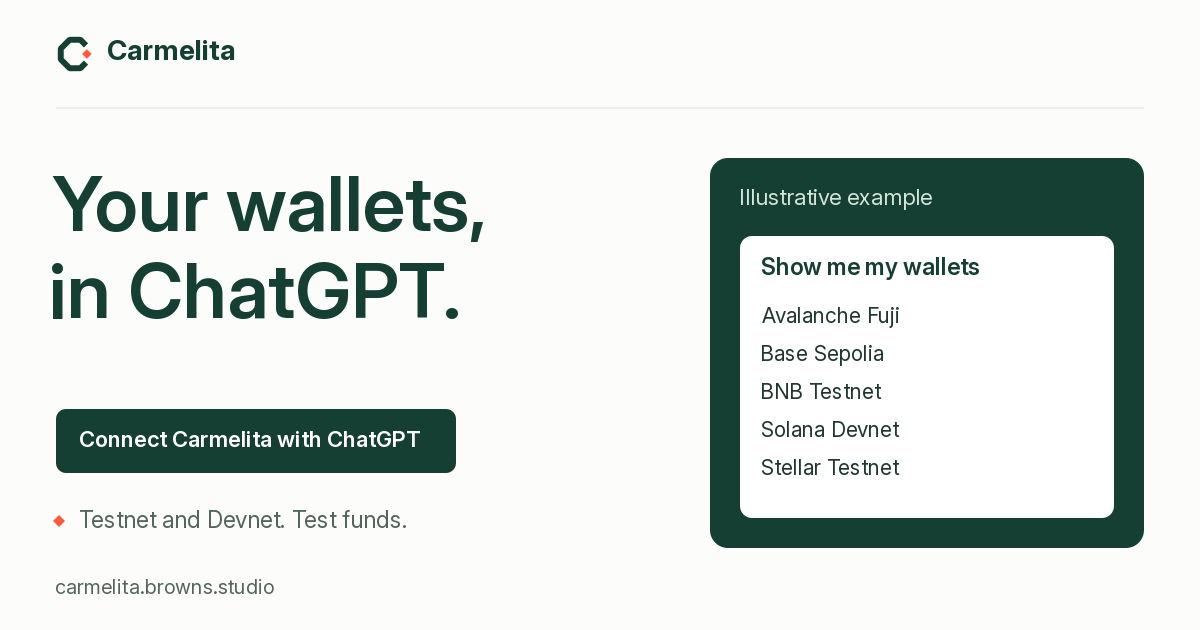
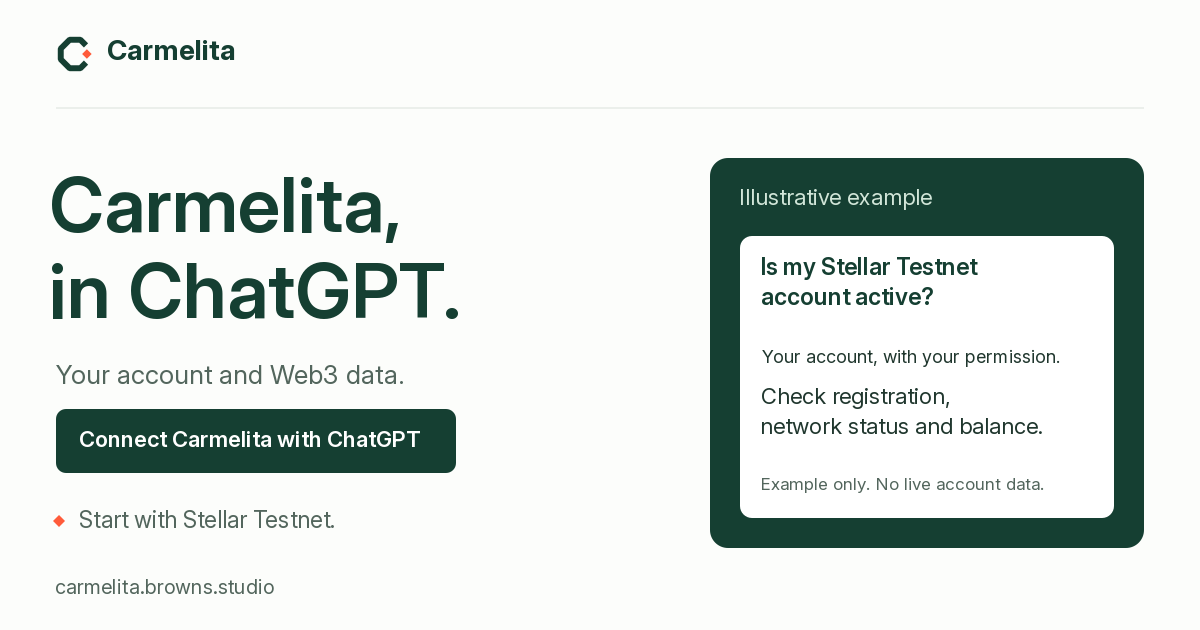
Present Carmelita as a ChatGPT connector with Stellar first

diff --git a/app/home-experience.tsx b/app/home-experience.tsx
@@ -8,22 +8,26 @@ import styles from "./home-experience.module.css";
 const copy = {
   es: {
     home: "Inicio de Carmelita", footerNav: "Enlaces de Carmelita", skip: "Ir al contenido", guide: "Guía de conexión", developers: "Desarrolladores",
-    title: "Tus wallets,", titleEnd: "en ChatGPT.",
-    description: "Conecta Carmelita y consulta las direcciones de tus wallets en cinco redes de prueba, desde una conversación.",
+    title: "Carmelita,", titleEnd: "dentro de ChatGPT.",
+    description: "Carmelita es un complemento para consultar tu información y datos Web3 desde ChatGPT. Conecta tu cuenta y pregunta por tus wallets, redes y mercado en la misma conversación.",
     connect: "Conectar Carmelita con ChatGPT", recommended: "Recomendado", signIn: "Iniciar sesión en Carmelita",
-    alternative: "También puedes entrar directamente", scope: "Wallets Testnet y Devnet. Fondos de prueba.",
-    example: "Ejemplo ilustrativo", question: "Muéstrame mis wallets", answer: "Estas son tus cinco redes de prueba.",
-    address: "Ejemplo de dirección", preview: "Vista ilustrativa. Al conectar, consultas las direcciones asociadas a tu cuenta.",
+    alternative: "También puedes entrar directamente", scope: "Consultas vinculadas a la cuenta que autorizas.",
+    example: "Ejemplo ilustrativo", question: "¿Qué puedo consultar con Carmelita?", answer: "Empieza por tu cuenta y el contexto de tus redes.",
+    queries: ["Tu wallet Stellar y tus otras wallets", "El estado de tu cuenta en la red", "Información de mercado y redes"],
+    preview: "Ejemplo ilustrativo de consultas. Tus datos aparecen después de autorizar.",
     benefits: [
-      ["Pregunta con tus palabras", "Consulta tus direcciones sin cambiar de conversación."],
-      ["Encuentra tus wallets", "Revisa las wallets de la cuenta que autorizas y abre sus exploradores."],
-      ["Empieza en redes de prueba", "Conoce el recorrido con Testnet y Devnet antes de usar fondos reales."],
+      ["Tu información", "Consulta las wallets asociadas a la cuenta que autorizas."],
+      ["El contexto", "Pregunta por precios y redes, con fuentes y disponibilidad."],
+      ["Tu conversación", "Pregunta con tus palabras, sin salir de ChatGPT."],
     ],
-    stepsTitle: "De la conexión a tu primera pregunta.", stepsIntro: "La guía te acompaña. La conexión se añade manualmente en ChatGPT.",
+    stellarLabel: "Empieza con Stellar", stellarTitle: "Una pregunta para conocer tu cuenta.",
+    stellarQuestion: "«¿Está activa mi cuenta Stellar Testnet?»",
+    stellarDescription: "Carmelita consulta su estado. La activación se confirma en la red; los fondos de este recorrido son de prueba.",
+    stepsTitle: "Conecta una vez. Empieza a preguntar.", stepsIntro: "La guía te acompaña. La conexión se añade manualmente en ChatGPT.",
     steps: [
       ["Abre la guía", "Copia la URL de Carmelita y abre la sección de conectores de ChatGPT."],
       ["Añade Carmelita y autoriza", "Crea tu cuenta Carmelita o inicia sesión durante la autorización. Revisa los permisos antes de aceptar."],
-      ["Pregunta por tus wallets", "Habilita Carmelita en una conversación y escribe: «Muéstrame mis wallets»."],
+      ["Empieza a preguntar", "Habilita Carmelita en una conversación. Puedes empezar con: «¿Está activa mi cuenta Stellar Testnet?»."],
     ],
     stepsLink: "Abrir la guía paso a paso",
     faqTitle: "Antes de conectar.", faqIntro: "Lo que necesitas saber para empezar con tu cuenta.",
@@ -31,8 +35,8 @@ const copy = {
       ["¿Necesito crear una cuenta Carmelita antes?", "Puedes crear tu cuenta Carmelita o iniciar sesión durante la autorización desde ChatGPT. Si ya tienes cuenta, utiliza la misma identidad para conservar tus wallets."],
       ["¿Funciona con cualquier cuenta de ChatGPT?", "Tu cuenta debe permitir conectores MCP personalizados. La disponibilidad depende de tu cuenta y de las políticas de tu espacio de trabajo. Crear una cuenta ChatGPT no garantiza ese permiso; la guía explica cómo comprobarlo."],
       ["¿Mis wallets se preparan al conectar?", "La autorización prepara tus wallets para las cinco redes de prueba. Stellar intenta activarse automáticamente con XLM Testnet y sólo aparece activa cuando la red lo confirma. Si la red no responde, la activación puede quedar pendiente. Las otras redes no se financian automáticamente."],
-      ["¿Por qué tres redes comparten una dirección?", "Avalanche Fuji, Base Sepolia y BNB Testnet utilizan la misma dirección EVM. Cada red mantiene su propio saldo y actividad. Solana Devnet y Stellar Testnet tienen sus propias direcciones."],
-      ["¿Estos fondos tienen valor real?", "Las wallets de este recorrido usan Testnet o Devnet. Sus fondos sirven para pruebas y no se convierten en fondos Mainnet. XLM es el activo nativo de Stellar y no necesita una trustline."],
+      ["¿Qué redes puedo consultar?", "Empezamos por Stellar Testnet. También puedes consultar tus wallets en Solana Devnet, Avalanche Fuji, Base Sepolia y BNB Testnet. Las tres redes EVM comparten una dirección; cada red mantiene su propio saldo y actividad."],
+      ["¿Son fondos reales o de prueba?", "Las wallets de este recorrido usan Testnet o Devnet. Sus fondos sirven para pruebas y no se convierten en fondos Mainnet. Los datos de mercado se consultan por separado y no dan valor real a los fondos Testnet. XLM es el activo nativo de Stellar y no necesita una trustline."],
     ],
     development: "En desarrollo", visionTitle: "Más servicios, una misma conexión.",
     vision: "Estamos preparando Carmelita como una pasarela para conectar servicios de empresas y desarrolladores con los asistentes. Bazaar, las compras y la ejecución de servicios siguen pendientes de validación.",
@@ -40,22 +44,26 @@ const copy = {
   },
   en: {
     home: "Carmelita home", footerNav: "Carmelita links", skip: "Skip to content", guide: "Connection guide", developers: "Developers",
-    title: "Your wallets,", titleEnd: "in ChatGPT.",
-    description: "Connect Carmelita and check your wallet addresses across five test networks, from a conversation.",
+    title: "Carmelita,", titleEnd: "in ChatGPT.",
+    description: "Carmelita is a connector for checking your information and Web3 data from ChatGPT. Connect your account and ask about your wallets, networks and markets in the same conversation.",
     connect: "Connect Carmelita with ChatGPT", recommended: "Recommended", signIn: "Sign in to Carmelita",
-    alternative: "You can also sign in directly", scope: "Testnet and Devnet wallets. Test funds.",
-    example: "Illustrative example", question: "Show me my wallets", answer: "Here are your five test networks.",
-    address: "Example address", preview: "Illustrative view. Once connected, you can check the addresses associated with your account.",
+    alternative: "You can also sign in directly", scope: "Queries linked to the account you authorize.",
+    example: "Illustrative example", question: "What can I ask Carmelita about?", answer: "Start with your account and the context of your networks.",
+    queries: ["Your Stellar wallet and your other wallets", "Your account’s status on the network", "Market and network information"],
+    preview: "Illustrative queries. Your data appears after authorization.",
     benefits: [
-      ["Ask in your own words", "Check your addresses without leaving the conversation."],
-      ["Find your wallets", "View the wallets of the account you authorize and open their explorers."],
-      ["Start on test networks", "Learn the flow with Testnet and Devnet before using real funds."],
+      ["Your information", "Check the wallets associated with the account you authorize."],
+      ["The context", "Ask about prices and networks, with sources and availability."],
+      ["Your conversation", "Ask in your own words, without leaving ChatGPT."],
     ],
-    stepsTitle: "From connecting to your first question.", stepsIntro: "The guide walks you through it. You add the connection manually in ChatGPT.",
+    stellarLabel: "Start with Stellar", stellarTitle: "One question to learn about your account.",
+    stellarQuestion: "“Is my Stellar Testnet account active?”",
+    stellarDescription: "Carmelita checks its status. Activation is confirmed on the network; funds in this flow are test funds.",
+    stepsTitle: "Connect once. Start asking.", stepsIntro: "The guide walks you through it. You add the connection manually in ChatGPT.",
     steps: [
       ["Open the guide", "Copy Carmelita’s URL and open the connectors section in ChatGPT."],
       ["Add Carmelita and authorize", "Create your Carmelita account or sign in during authorization. Review the permissions before accepting."],
-      ["Ask about your wallets", "Enable Carmelita in a conversation and type: “Show me my wallets”."],
+      ["Start asking", "Enable Carmelita in a conversation. You can start with: “Is my Stellar Testnet account active?”."],
     ],
     stepsLink: "Open the step-by-step guide",
     faqTitle: "Before you connect.", faqIntro: "What you need to know to get started with your account.",
@@ -63,8 +71,8 @@ const copy = {
       ["Do I need a Carmelita account first?", "You can create your Carmelita account or sign in during authorization from ChatGPT. If you already have an account, use the same identity to keep your wallets."],
       ["Does it work with every ChatGPT account?", "Your account must allow custom MCP connectors. Availability depends on your account and workspace policies. Creating a ChatGPT account does not guarantee this permission; the guide explains how to check."],
       ["Are my wallets prepared when I connect?", "Authorization prepares your wallets for the five test networks. Stellar attempts automatic activation with Testnet XLM and is shown as active only after network confirmation. If the network does not respond, activation may remain pending. The other networks are not automatically funded."],
-      ["Why do three networks share an address?", "Avalanche Fuji, Base Sepolia and BNB Testnet use the same EVM address. Each network keeps its own balance and activity. Solana Devnet and Stellar Testnet have their own addresses."],
-      ["Do these funds have real value?", "The wallets in this flow use Testnet or Devnet. Their funds are for testing and do not become Mainnet funds. XLM is Stellar’s native asset and does not need a trustline."],
+      ["Which networks can I ask about?", "Start with Stellar Testnet. You can also check your wallets on Solana Devnet, Avalanche Fuji, Base Sepolia and BNB Testnet. The three EVM networks share an address; each network keeps its own balance and activity."],
+      ["Are these real funds or test funds?", "The wallets in this flow use Testnet or Devnet. Their funds are for testing and do not become Mainnet funds. Market data is queried separately and does not give Testnet funds real value. XLM is Stellar’s native asset and does not need a trustline."],
     ],
     development: "In development", visionTitle: "More services, one connection.",
     vision: "We are preparing Carmelita as a gateway connecting services from businesses and developers with assistants. Bazaar, purchases and service execution are still awaiting validation.",
@@ -72,22 +80,26 @@ const copy = {
   },
   pt: {
     home: "Início da Carmelita", footerNav: "Links da Carmelita", skip: "Ir para o conteúdo", guide: "Guia de conexão", developers: "Desenvolvedores",
-    title: "Suas carteiras,", titleEnd: "no ChatGPT.",
-    description: "Conecte a Carmelita e consulte os endereços das suas carteiras em cinco redes de teste, a partir de uma conversa.",
+    title: "Carmelita,", titleEnd: "no ChatGPT.",
+    description: "A Carmelita é um conector para consultar suas informações e dados Web3 pelo ChatGPT. Conecte sua conta e pergunte sobre suas carteiras, redes e mercado na mesma conversa.",
     connect: "Conectar a Carmelita ao ChatGPT", recommended: "Recomendado", signIn: "Entrar na Carmelita",
-    alternative: "Você também pode entrar diretamente", scope: "Carteiras Testnet e Devnet. Fundos de teste.",
-    example: "Exemplo ilustrativo", question: "Mostre minhas carteiras", answer: "Estas são suas cinco redes de teste.",
-    address: "Exemplo de endereço", preview: "Vista ilustrativa. Ao conectar, você consulta os endereços associados à sua conta.",
+    alternative: "Você também pode entrar diretamente", scope: "Consultas vinculadas à conta que você autoriza.",
+    example: "Exemplo ilustrativo", question: "O que posso consultar com a Carmelita?", answer: "Comece pela sua conta e pelo contexto das suas redes.",
+    queries: ["Sua carteira Stellar e suas outras carteiras", "O estado da sua conta na rede", "Informações de mercado e redes"],
+    preview: "Exemplo ilustrativo de consultas. Seus dados aparecem após a autorização.",
     benefits: [
-      ["Pergunte com suas palavras", "Consulte seus endereços sem sair da conversa."],
-      ["Encontre suas carteiras", "Confira as carteiras da conta que autoriza e abra seus exploradores."],
-      ["Comece em redes de teste", "Conheça o fluxo com Testnet e Devnet antes de usar fundos reais."],
+      ["Suas informações", "Consulte as carteiras associadas à conta que autoriza."],
+      ["O contexto", "Pergunte sobre preços e redes, com fontes e disponibilidade."],
+      ["Sua conversa", "Pergunte com suas palavras, sem sair do ChatGPT."],
     ],
-    stepsTitle: "Da conexão à sua primeira pergunta.", stepsIntro: "O guia acompanha você. A conexão é adicionada manualmente no ChatGPT.",
+    stellarLabel: "Comece com Stellar", stellarTitle: "Uma pergunta para conhecer sua conta.",
+    stellarQuestion: "“Minha conta Stellar Testnet está ativa?”",
+    stellarDescription: "A Carmelita consulta o estado da conta. A ativação é confirmada na rede; os fundos deste fluxo são de teste.",
+    stepsTitle: "Conecte uma vez. Comece a perguntar.", stepsIntro: "O guia acompanha você. A conexão é adicionada manualmente no ChatGPT.",
     steps: [
       ["Abra o guia", "Copie a URL da Carmelita e abra a seção de conectores do ChatGPT."],
       ["Adicione a Carmelita e autorize", "Crie sua conta Carmelita ou entre durante a autorização. Confira as permissões antes de aceitar."],
-      ["Pergunte pelas suas carteiras", "Ative a Carmelita em uma conversa e escreva: “Mostre minhas carteiras”."],
+      ["Comece a perguntar", "Ative a Carmelita em uma conversa. Você pode começar com: “Minha conta Stellar Testnet está ativa?”."],
     ],
     stepsLink: "Abrir o guia passo a passo",
     faqTitle: "Antes de conectar.", faqIntro: "O que você precisa saber para começar com sua conta.",
@@ -95,8 +107,8 @@ const copy = {
       ["Preciso criar uma conta Carmelita antes?", "Você pode criar sua conta Carmelita ou entrar durante a autorização pelo ChatGPT. Se já tem uma conta, use a mesma identidade para manter suas carteiras."],
       ["Funciona com qualquer conta do ChatGPT?", "Sua conta precisa permitir conectores MCP personalizados. A disponibilidade depende da conta e das políticas do espaço de trabalho. Criar uma conta ChatGPT não garante essa permissão; o guia explica como verificar."],
       ["Minhas carteiras são preparadas ao conectar?", "A autorização prepara suas carteiras para as cinco redes de teste. A Stellar tenta ativar-se automaticamente com XLM Testnet e só aparece ativa após confirmação da rede. Se a rede não responder, a ativação pode ficar pendente. As demais redes não recebem fundos automaticamente."],
-      ["Por que três redes compartilham um endereço?", "Avalanche Fuji, Base Sepolia e BNB Testnet usam o mesmo endereço EVM. Cada rede mantém seu próprio saldo e atividade. Solana Devnet e Stellar Testnet têm seus próprios endereços."],
-      ["Esses fundos têm valor real?", "As carteiras deste fluxo usam Testnet ou Devnet. Seus fundos servem para testes e não se tornam fundos Mainnet. XLM é o ativo nativo da Stellar e não precisa de uma trustline."],
+      ["Quais redes posso consultar?", "Comece pela Stellar Testnet. Você também pode consultar suas carteiras na Solana Devnet, Avalanche Fuji, Base Sepolia e BNB Testnet. As três redes EVM compartilham um endereço; cada rede mantém seu próprio saldo e atividade."],
+      ["São fundos reais ou de teste?", "As carteiras deste fluxo usam Testnet ou Devnet. Seus fundos servem para testes e não se tornam fundos Mainnet. Dados de mercado são consultados separadamente e não dão valor real aos fundos Testnet. XLM é o ativo nativo da Stellar e não precisa de uma trustline."],
     ],
     development: "Em desenvolvimento", visionTitle: "Mais serviços, uma mesma conexão.",
     vision: "Estamos preparando a Carmelita como uma plataforma para conectar serviços de empresas e desenvolvedores aos assistentes. Bazaar, compras e execução de serviços ainda aguardam validação.",
@@ -104,13 +116,15 @@ const copy = {
   },
 };
 
-const networks = [
-  { name: "Avalanche Fuji", symbol: "A", family: "evm", example: "0x…" },
-  { name: "Base Sepolia", symbol: "B", family: "evm", example: "0x…" },
-  { name: "BNB Testnet", symbol: "B", family: "evm", example: "0x…" },
-  { name: "Solana Devnet", symbol: "S", family: "solana", example: "…" },
-  { name: "Stellar Testnet", symbol: "S", family: "stellar", example: "G…" },
-];
+function QueryIcon({ kind }: { kind: number }) {
+  return (
+    <svg width="20" height="20" viewBox="0 0 24 24" aria-hidden="true" focusable="false" fill="none" stroke="currentColor" strokeWidth="1.6" strokeLinecap="round" strokeLinejoin="round">
+      {kind === 0 ? <><rect x="3" y="5" width="18" height="15" rx="2" /><path d="M3 9h18m0 3h-5v5h5" /><circle cx="18" cy="14.5" r=".7" /></> :
+        kind === 1 ? <path d="M2 12h4l3-8 4 16 3-8h6" /> :
+          <path d="M4 4v16h16M8 16v-4m4 4V8m4 8V5" />}
+    </svg>
+  );
+}
 
 export default function HomeExperience() {
   const { locale, setLocale } = useLocale();
@@ -146,13 +160,9 @@ export default function HomeExperience() {
             <p className={styles.question}>{t.question}</p>
             <div className={styles.response}>
               <p className={styles.answer}>{t.answer}</p>
-              <ul className={styles.networks}>
-                {networks.map(network => (
-                  <li key={network.name}>
-                    <span className={styles.networkSymbol + " " + styles[network.family]} aria-hidden="true">{network.symbol}</span>
-                    <span>{network.name}</span>
-                    <span className={styles.address} aria-label={t.address}>{network.example}</span>
-                  </li>
+              <ul className={styles.queryList}>
+                {t.queries.map((query, index) => (
+                  <li key={query}><QueryIcon kind={index} /><span>{query}</span></li>
                 ))}
               </ul>
             </div>
@@ -165,6 +175,16 @@ export default function HomeExperience() {
           <div key={title}><h2>{title}</h2><p>{description}</p></div>
         ))}
       </div>
+      <section className={styles.stellarUse} aria-labelledby="home-stellar-title">
+        <div>
+          <p className={styles.development}><span aria-hidden="true" />{t.stellarLabel}</p>
+          <h2 id="home-stellar-title">{t.stellarTitle}</h2>
+        </div>
+        <div>
+          <blockquote className={styles.stellarQuestion}>{t.stellarQuestion}</blockquote>
+          <p className={styles.stellarDescription}>{t.stellarDescription}</p>
+        </div>
+      </section>
       <section className={styles.steps} aria-labelledby="home-steps-title">
         <div className={styles.sectionHeading}>
           <h2 id="home-steps-title">{t.stepsTitle}</h2><p>{t.stepsIntro}</p>

diff --git a/app/home-experience.module.css b/app/home-experience.module.css
@@ -35,7 +35,7 @@
   color: white; background: var(--home-green); transform: translateY(-180%);
 }
 .skipLink:focus { transform: translateY(0); }
-.nav, .hero, .benefits, .steps, .faq, .vision, .footer { width: min(1180px, 100%); margin-inline: auto; }
+.nav, .hero, .benefits, .stellarUse, .steps, .faq, .vision, .footer { width: min(1180px, 100%); margin-inline: auto; }
 .nav {
   display: flex; align-items: center; justify-content: space-between; gap: 24px;
   padding-block: 22px; border-bottom: 1px solid var(--home-line);
@@ -48,10 +48,10 @@
 .navActions :global(.language-toggle button) { min-width: 44px; min-height: 44px; padding: 10px; font-family: inherit; font-size: 14px; font-weight: 600; color: var(--home-green); }
 .navActions :global(.language-toggle button.active) { background: var(--home-green); color: white; }
 
-.hero { display: grid; grid-template-columns: minmax(0, 1fr) minmax(0, 1fr); align-items: center; gap: 64px; padding-block: 80px 64px; scroll-margin-top: 24px; }
+.hero { display: grid; grid-template-columns: minmax(0, 1.12fr) minmax(0, .88fr); align-items: center; gap: 56px; padding-block: 72px 56px; scroll-margin-top: 24px; }
 .intro { min-width: 0; }
-.intro h1 { margin: 0; color: var(--home-green); font-size: clamp(48px, 5.4vw, 76px); font-weight: 650; line-height: 1.04; letter-spacing: -.06em; overflow-wrap: break-word; }
-.description { margin: 26px 0 32px; max-width: 480px; font-size: 18px; line-height: 1.7; color: var(--home-muted); }
+.intro h1 { margin: 0; color: var(--home-green); font-size: clamp(44px, 5.4vw, 64px); font-weight: 650; line-height: 1.08; letter-spacing: -.055em; overflow-wrap: break-word; }
+.description { margin: 26px 0 32px; max-width: 600px; font-size: 18px; line-height: 1.7; color: var(--home-muted); }
 .actions { display: flex; flex-direction: column; align-items: flex-start; gap: 22px; }
 .primary { display: inline-flex; flex-direction: column; align-items: center; justify-content: center; gap: 6px; min-height: 76px; max-width: 100%; padding: 16px 26px; border-radius: 10px; background: var(--home-green); color: white; font-size: 16px; font-weight: 650; line-height: 1.5; text-align: center; text-decoration: none; transition: background-color 150ms ease; }
 .primary:hover { background: #0d3025; }
@@ -70,18 +70,18 @@
 .question { width: fit-content; max-width: 95%; margin: 0 0 22px auto; padding: 13px 17px; border-radius: 12px 12px 3px 12px; background: #d8eddd; color: var(--home-green); font-size: 16px; line-height: 1.5; }
 .response { padding: 22px; background: white; border-radius: 3px 12px 12px 12px; }
 .answer { margin: 0 0 14px; color: var(--home-text); font-size: 16px; font-weight: 550; line-height: 1.6; }
-.networks { list-style: none; padding: 0; margin: 0; }
-.networks li { display: grid; grid-template-columns: 30px minmax(0, 1fr) auto; align-items: center; gap: 12px; min-height: 51px; padding-block: 10px; border-top: 1px solid var(--home-line); font-size: 15px; line-height: 1.5; }
-.networkSymbol { display: grid; place-items: center; width: 30px; height: 30px; border-radius: 50%; font-size: 14px; font-weight: 650; }
-.evm { background: #e6eee8; color: var(--home-green); }
-.solana { background: #e8eaf6; color: #414c7c; }
-.stellar { background: #f6eade; color: #775334; }
-.address { color: var(--home-muted); font-size: 14px; font-variant-numeric: tabular-nums; }
+.queryList { list-style: none; padding: 0; margin: 0; }
+.queryList li { display: flex; align-items: center; gap: 12px; min-height: 54px; padding-block: 14px; border-top: 1px solid var(--home-line); font-size: 15px; line-height: 1.6; }
+.queryList svg { flex-shrink: 0; color: var(--home-green); }
 .previewNote { margin: 14px 4px 0; max-width: 510px; color: var(--home-muted); font-size: 14px; line-height: 1.6; }
 
 .benefits { display: grid; grid-template-columns: repeat(3, minmax(0, 1fr)); gap: 40px; border-top: 1px solid var(--home-line); padding-block: 36px 48px; }
 .benefits h2 { margin: 0 0 12px; font-size: 20px; font-weight: 600; line-height: 1.4; letter-spacing: -.025em; }
 .benefits p { margin: 0; max-width: 330px; color: var(--home-muted); font-size: 16px; line-height: 1.7; }
+.stellarUse { display: grid; grid-template-columns: minmax(0, 1fr) minmax(0, 1fr); align-items: center; gap: 40px; padding: 36px; margin-bottom: 52px; background: var(--home-soft); border-left: 3px solid var(--home-green); }
+.stellarUse h2 { margin: 0; max-width: 440px; font-size: clamp(28px, 3vw, 34px); font-weight: 600; line-height: 1.2; letter-spacing: -.035em; color: var(--home-green); }
+.stellarQuestion { margin: 0 0 14px; padding: 0; border: 0; color: var(--home-green); font-size: 21px; line-height: 1.5; }
+.stellarDescription { margin: 0; color: var(--home-muted); font-size: 16px; line-height: 1.7; }
 .steps { padding-block: 72px; border-top: 1px solid var(--home-line); }
 .sectionHeading h2 { margin: 0; max-width: 760px; color: var(--home-green); font-size: clamp(30px, 3.2vw, 42px); font-weight: 600; line-height: 1.16; letter-spacing: -.045em; }
 .sectionHeading > p { margin: 18px 0 0; max-width: 620px; color: var(--home-muted); font-size: 16px; line-height: 1.7; }
@@ -120,7 +120,7 @@
 @media (max-width: 1100px) { .hero { gap: 40px; } .conversation { padding: 22px; } .response { padding: 18px; } .faq { gap: 40px; } .vision { gap: 40px; padding: 32px; } }
 @media (max-width: 899px) {
   .hero { grid-template-columns: minmax(0, 1fr); gap: 40px; padding-block: 56px 44px; }
-  .intro h1 { font-size: clamp(44px, 8vw, 68px); }
+  .intro h1 { font-size: clamp(44px, 8vw, 64px); }
   .description { max-width: 600px; }
   .demo { max-width: 620px; }
   .benefits, .steps ol { grid-template-columns: minmax(0, 1fr); gap: 28px; }
@@ -129,7 +129,7 @@
   .steps h3 { margin: 3px 0 0; }
   .steps li p { grid-column: 2; }
   .steps, .faq { padding-block: 52px; }
-  .faq, .vision { grid-template-columns: minmax(0, 1fr); gap: 28px; }
+  .faq, .vision, .stellarUse { grid-template-columns: minmax(0, 1fr); gap: 28px; }
   .vision { margin-bottom: 52px; }
 }
 @media (max-width: 540px) {
@@ -147,10 +147,11 @@
   .conversation header :global(.brand-wordmark) { font-size: 18px; }
   .conversation header > span:last-child { width: 100%; }
   .response { padding: 16px; }
-  .networks li { grid-template-columns: 26px minmax(0, 1fr) auto; gap: 8px; font-size: 14px; }
-  .networkSymbol { width: 26px; height: 26px; }
+  .queryList li { gap: 10px; }
   .previewNote { margin-inline: 0; }
   .benefits { padding-block: 28px 36px; }
+  .stellarUse { padding: 26px 22px; margin-bottom: 36px; }
+  .stellarQuestion { font-size: 19px; }
   .sectionHeading h2 { font-size: 30px; }
   .steps ol { margin-top: 28px; }
   .steps h3, .benefits h2 { font-size: 18px; }

diff --git a/app/page.tsx b/app/page.tsx
@@ -2,19 +2,19 @@ import type { Metadata } from "next";
 import HomeExperience from "./home-experience";
 
 export const metadata: Metadata = {
-  title: "Carmelita | Your wallets, in ChatGPT",
-  description: "Connect Carmelita with ChatGPT to check your own wallet addresses across Avalanche Fuji, Base Sepolia, BNB Testnet, Solana Devnet and Stellar Testnet.",
+  title: "Carmelita, in ChatGPT",
+  description: "Connect Carmelita with ChatGPT to consult your account, wallet balances and status, and Web3 market data. Start with Stellar Testnet.",
   alternates: { canonical: "/" },
   openGraph: {
-    title: "Carmelita | Your wallets, in ChatGPT",
-    description: "Connect your account and ask about your wallets on five test networks. Manual setup with a compatible ChatGPT account.",
+    title: "Carmelita, in ChatGPT",
+    description: "Your Carmelita account and Web3 data, in a conversation. Manual setup with a ChatGPT account that allows custom MCP connectors.",
     url: "/", siteName: "Carmelita", type: "website",
-    images: [{ url: "/brand/carmelita-landing-social.png", width: 1200, height: 630, alt: "Carmelita: your wallets, in ChatGPT. Testnet and Devnet." }],
+    images: [{ url: "/brand/carmelita-landing-social.png", width: 1200, height: 630, alt: "Carmelita, in ChatGPT. Your account and Web3 data, with an illustrative Stellar Testnet query." }],
   },
   twitter: {
     card: "summary_large_image",
-    title: "Carmelita | Your wallets, in ChatGPT",
-    description: "Check your wallet addresses on five test networks from a conversation.",
+    title: "Carmelita, in ChatGPT",
+    description: "Ask about your Carmelita account, Stellar Testnet wallet status and Web3 market data from ChatGPT.",
     images: ["/brand/carmelita-landing-social.png"],
   },
 };

diff --git a/docs/landing-redesign.md b/docs/landing-redesign.md
@@ -1,10 +1,12 @@
-# Landing centrada en la conexión con ChatGPT
+# Carmelita como complemento de ChatGPT
 
 Rama: `codex/landing-redesign`. Base: `caa3cd3757dbe6e2473bc78eeedca45ee2bb1542`.
 
-La portada presenta el recorrido disponible: añadir Carmelita manualmente en ChatGPT, autorizar una identidad y consultar sus wallets en cinco redes de prueba. Mantiene el CTA recomendado, ofrece ingreso directo y separa la visión de servicios bajo «En desarrollo». Español, inglés y portugués conservan el selector y la persistencia existentes.
+La portada explica qué es Carmelita y qué permite consultar: información de la cuenta autorizada, wallets y estado de red, y datos de mercado mediante los adaptadores de lectura existentes. Presenta el recorrido de añadir Carmelita manualmente en ChatGPT y autorizar una identidad. Mantiene el CTA recomendado, ofrece ingreso directo y separa la visión de servicios bajo «En desarrollo». Español, inglés y portugués conservan el selector y la persistencia existentes.
 
-Las direcciones del ejemplo son marcadores ilustrativos, sin datos de usuarios. No se anuncian Bazaar, compras, ejecución de servicios ni historial completo como prestaciones disponibles. Stellar distingue preparación de wallets y confirmación de activación por la red; XLM es nativo y no requiere trustline. La guía compartida permite crear identidad durante OAuth y propone comprobar Stellar como consulta posterior.
+El usuario eligió el enfoque «Complemento de ChatGPT: qué es y qué permite consultar» frente a las otras dos propuestas. La revisión sustituye el titular centrado en wallets y la tabla de direcciones del hero por una conversación ilustrativa con tres tipos de consultas. Stellar es el primer caso de uso en una sección propia y encabeza las redes de la FAQ. No hay datos personales ni resultados de activación inventados.
+
+No se anuncian Bazaar, compras, ejecución de servicios ni historial completo como prestaciones disponibles. Stellar distingue preparación de wallets y confirmación de activación por la red; XLM es nativo y no requiere trustline. La guía compartida permite crear identidad durante OAuth y propone comprobar Stellar como consulta posterior. Las consultas de mercado son de lectura y dependen de fuentes disponibles; esta revisión de interfaz no certifica la disponibilidad actual de cada proveedor ni muestra cotizaciones en vivo.
 
 ## Reproducir localmente
 
@@ -20,7 +22,7 @@ Inter se sirve desde `public/fonts/InterVariable.woff2`, con su licencia SIL OFL
 
 ## Verificación
 
-Verificación local del 11 de octubre de 2026 (Santiago), incluyendo el build de producción local:
+Verificación de la revisión elegida del 11 de octubre de 2026 (Santiago), incluyendo el build de producción local:
 
 | Caso | Resultado |
 | --- | --- |
@@ -29,15 +31,15 @@ Verificación local del 11 de octubre de 2026 (Santiago), incluyendo el build de
 | Suite de aplicación | 1.048 aprobadas, 2 omitidas, 0 fallidas |
 | Build y TypeScript | Aprobados |
 | ES/EN/PT a 320, 390, 768, 1024 y 1440 px | 15 combinaciones, sin desbordamiento ni texto visible menor de 14 px |
-| Contraste renderizado | 71 pares de texto; mínimo 5,49:1; sin fallos |
+| Contraste renderizado | 73 pares de texto, incluidas FAQ abiertas; mínimo 5,49:1; sin fallos |
 | Teclado | Salto al contenido, acceso al CTA, foco visible y apertura/cierre de FAQ |
-| Navegación | Guía, documentación de desarrolladores e ingreso directo conservan sus destinos |
+| Navegación | Guía, documentación de desarrolladores e ingreso directo conservan sus destinos; comprobados desde la portada renderizada |
 | Regreso tras el salto al contenido | Corregido con NextLink; Volver restaura la portada y Avanzar restaura la guía |
 | Reflujo equivalente al 200 % | Sin desbordamiento a 720 × 450, equivalente a una ventana 1440 × 900 ampliada |
 
 El controlador del navegador interno no aplica zoom real mediante el atajo de teclado; la comprobación manual al 200 % sigue pendiente. El servidor local no tiene credenciales Privy: el destino de ingreso muestra su aviso de indisponibilidad esperado. Esta revisión no repite el alta ni OAuth contra producción, ni certifica nuevos flujos de wallets.
 
-Capturas y mediciones locales quedan en `work/landing-qa/`, sin datos privados y excluidas de Git. La revisión independiente comprobó estilos heredados, traducciones y React. Graphify se actualizó con AST, sin llamadas LLM; su extractor SQL sigue sin modelar algunas migraciones porque no está instalado tree_sitter_sql.
+Capturas y mediciones de la revisión elegida quedan en `work/landing-qa-companion/`, sin datos privados y excluidas de Git; `work/landing-qa/` conserva la revisión anterior. Se guardaron vistas completas y recortes del hero de escritorio y móvil en ES/EN/PT. La revisión independiente comprobó estilos heredados, traducciones, React y la imagen social. Graphify se actualizó con AST (3.851 nodos, 9.981 aristas), sin llamadas LLM; su extractor SQL sigue sin modelar algunas migraciones porque no está instalado tree_sitter_sql.
 
 ## Publicación
 
